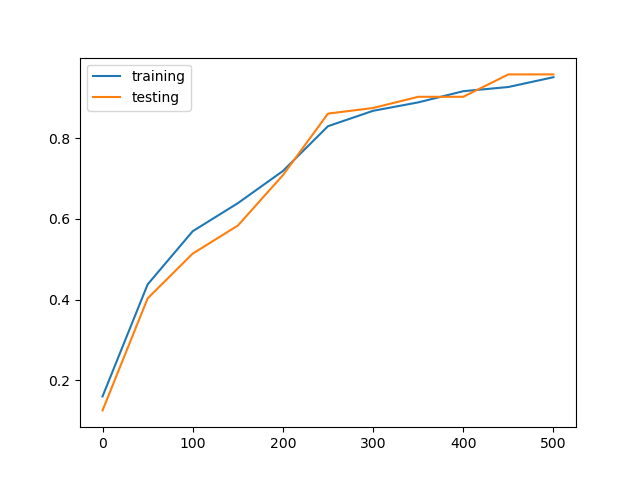
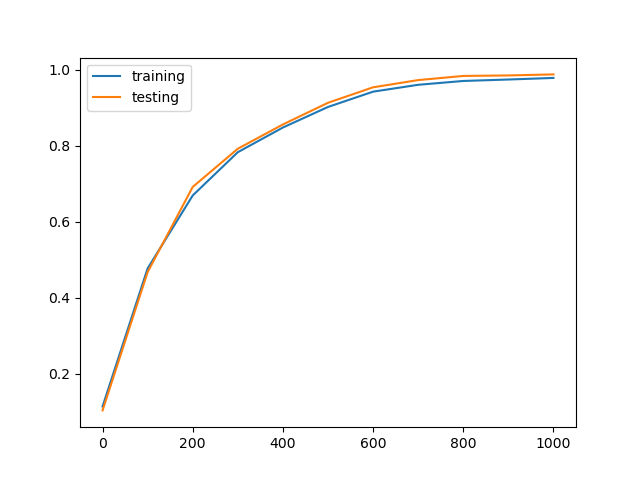
KZ-67: added batches with dataloader

diff --git a/pytorch/point_in_cluster/main.py b/pytorch/point_in_cluster/main.py
@@ -1,17 +1,18 @@
-from data import gen_clusters
-from torch import nn
-from sklearn.model_selection import train_test_split
-import matplotlib.pyplot as plt
 import torch
+from torch import nn
+from torch.utils.data import DataLoader
+import matplotlib.pyplot as plt
+from tqdm import tqdm
+from data import PointInClusterDataset
 
 
 def train():
-    # geenerate data
-    points, labels = gen_clusters()
-    num_clusters = int(labels[-1]) + 1
-    xs_train, xs_test, ys_train, ys_test = train_test_split(
-        points, labels, test_size=0.2, random_state=23
-    )
+    # generate data
+    train_dataset = PointInClusterDataset(train=True)
+    train_dataloader = DataLoader(train_dataset, batch_size=32, shuffle=True)
+    test_dataset = PointInClusterDataset(train=False)
+    test_dataloader = DataLoader(test_dataset, batch_size=32, shuffle=True)
+    num_clusters = train_dataset.num_clusters
 
     # define model
     model = nn.Sequential(
@@ -22,19 +23,19 @@ def train():
         nn.Linear(16, num_clusters),
     )
     loss_fn = nn.CrossEntropyLoss()
-    optimizer = torch.optim.SGD(model.parameters(), lr=1e-4)
+    optimizer = torch.optim.SGD(model.parameters(), lr=1e-3)
 
     # data for plotting
     train_loss_list = []
     test_loss_list = []
-    train_accuracy_list = []
-    test_accuracy_list = []
+    train_acc_list = []
+    test_acc_list = []
     epoch_list = []
 
     # training loop
-    for epoch in range(501):
+    for epoch in tqdm(range(1001)):
         model.train()
-        for x, y in zip(xs_train, ys_train):
+        for x, y in test_dataloader:
             y_hat = model(x)
             loss = loss_fn(y_hat, y)
             loss.backward()
@@ -42,26 +43,31 @@ def train():
             optimizer.zero_grad()
 
         # evaluate loss/accuracy
-        if epoch % 50 == 0:
+        if epoch % 100 == 0:
             model.eval()
             with torch.inference_mode():
-                ys_train_hat = model(xs_train)
-                ys_test_hat = model(xs_test)
+                train_loss = 0
+                train_acc = 0
+                for x, y in train_dataloader:
+                    y_hat = model(x)
+                    train_loss += loss_fn(y_hat, y)
+                    train_acc += y_hat.argmax(dim=1).eq(y).float().mean().item()
+                train_loss /= len(train_dataloader)
+                train_acc /= len(train_dataloader)
 
-                train_loss = loss_fn(ys_train_hat, ys_train)
-                test_loss = loss_fn(ys_test_hat, ys_test)
-
-                train_accuracy = (
-                    ys_train_hat.argmax(dim=1).eq(ys_train).float().mean().item()
-                )
-                test_accuracy = (
-                    ys_test_hat.argmax(dim=1).eq(ys_test).float().mean().item()
-                )
+                test_loss = 0
+                test_acc = 0
+                for x, y in test_dataloader:
+                    y_hat = model(x)
+                    test_loss += loss_fn(y_hat, y)
+                    test_acc += y_hat.argmax(dim=1).eq(y).float().mean().item()
+                test_loss /= len(test_dataloader)
+                test_acc /= len(test_dataloader)
 
                 train_loss_list.append(train_loss)
+                train_acc_list.append(train_acc)
                 test_loss_list.append(test_loss)
-                train_accuracy_list.append(train_accuracy)
-                test_accuracy_list.append(test_accuracy)
+                test_acc_list.append(test_acc)
                 epoch_list.append(epoch)
 
     # plotting
@@ -72,8 +78,8 @@ def train():
     plt.savefig("loss.png")
 
     plt.figure()
-    plt.plot(epoch_list, train_accuracy_list, label="training")
-    plt.plot(epoch_list, test_accuracy_list, label="testing")
+    plt.plot(epoch_list, train_acc_list, label="training")
+    plt.plot(epoch_list, test_acc_list, label="testing")
     plt.legend()
     plt.savefig("accuracy.png")
 

diff --git a/pytorch/point_in_cluster/data.py b/pytorch/point_in_cluster/data.py
@@ -1,10 +1,12 @@
 import torch
+from torch.utils.data import Dataset
+from sklearn.model_selection import train_test_split
 
 
 BOUNDARY = 2
 CLUSTER_SPACING = 2.5
 CLUSTER_RADIUS = 1.0
-CLUSTER_POINTS = 40
+CLUSTER_POINTS = 400
 ATTEMPTS = 10000
 
 
@@ -36,9 +38,10 @@ def gen_clusters(
     cluster_points=CLUSTER_POINTS,
     cluster_radius=CLUSTER_RADIUS,
     boundary=BOUNDARY,
+    seed=23,
 ):
+    torch.manual_seed(seed)
     cluster_centers = gen_cluster_centers(cluster_attempts, cluster_spacing, boundary)
-    num_clusters = len(cluster_centers)
     clusters = []
     labels = []
     for i, center in enumerate(cluster_centers):
@@ -48,3 +51,22 @@ def gen_clusters(
         labels.append(torch.ones(cluster_points, dtype=torch.long) * i)
 
     return torch.cat(clusters), torch.cat(labels)
+
+
+class PointInClusterDataset(Dataset):
+    def __init__(self, train=True, **kwargs):
+        xs, ys = gen_clusters(**kwargs)
+        self.num_clusters = ys[-1] + 1
+        xs_train, xs_test, ys_train, ys_test = train_test_split(
+            xs, ys, test_size=0.2, random_state=23
+        )
+        if train:
+            self.xs, self.ys = xs_train, ys_train
+        else:
+            self.xs, self.ys = xs_test, ys_test
+
+    def __len__(self):
+        return len(self.xs)
+
+    def __getitem__(self, idx):
+        return self.xs[idx], self.ys[idx]

diff --git a/pytorch/README.md b/pytorch/README.md
@@ -10,8 +10,7 @@ Verified for Ubuntu 18.04 on WSL2.
 conda create -p env
 conda activate ./env
 conda install pytorch torchvision torchaudio pytorch-cuda -c pytorch -c nvidia
-conda install jupyterlab matplotlib
-conda install scikit-learn
+conda install jupyterlab matplotlib scikit-learn tqdm
 ```
 
 ## Running notebooks
